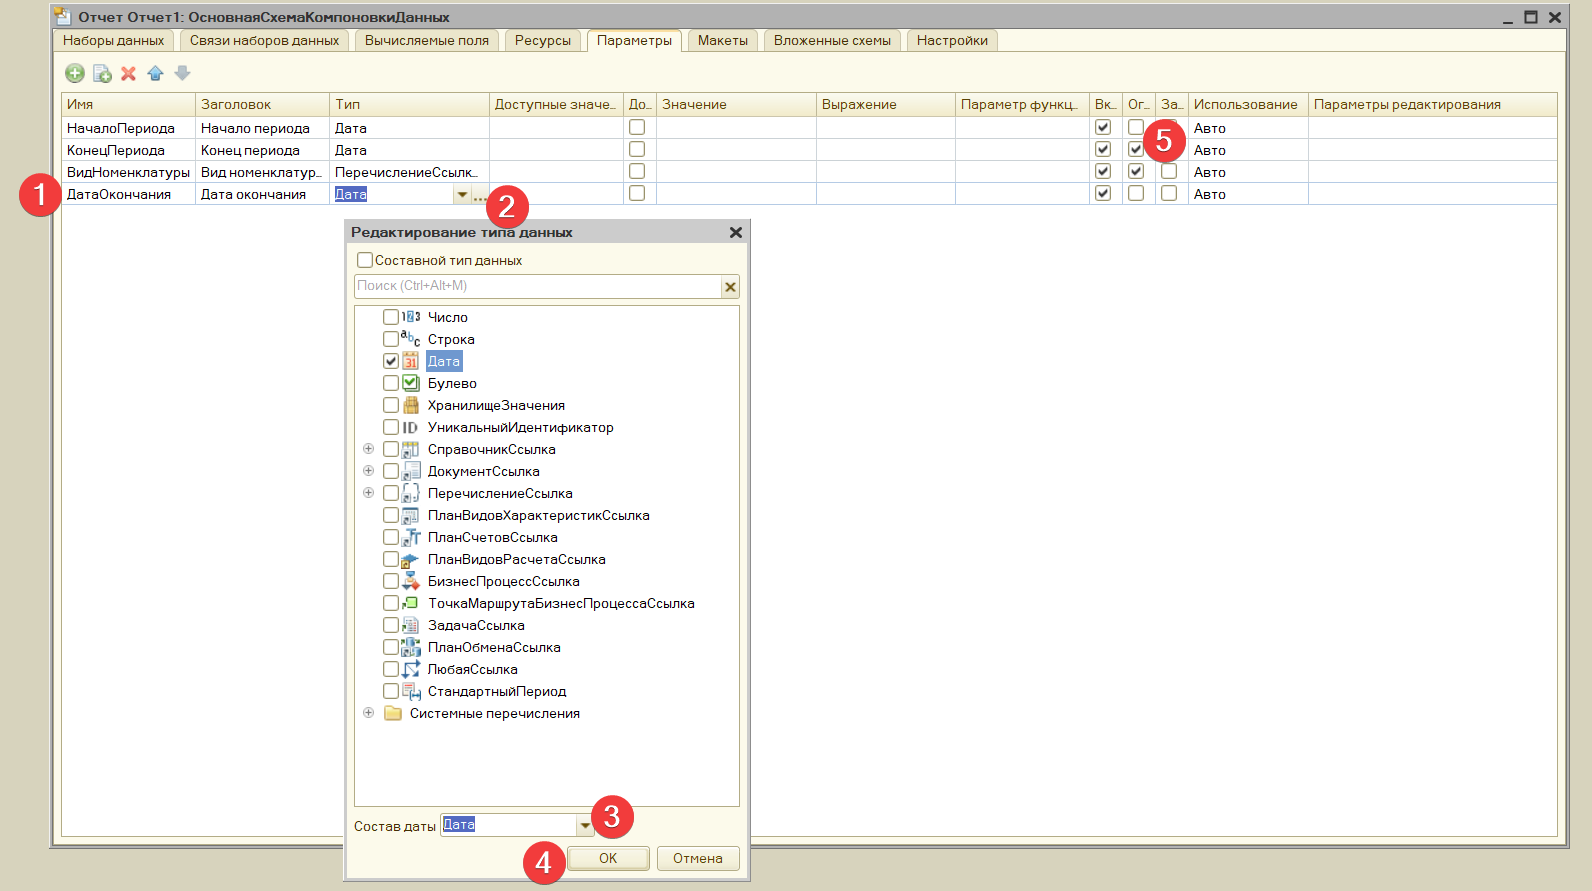
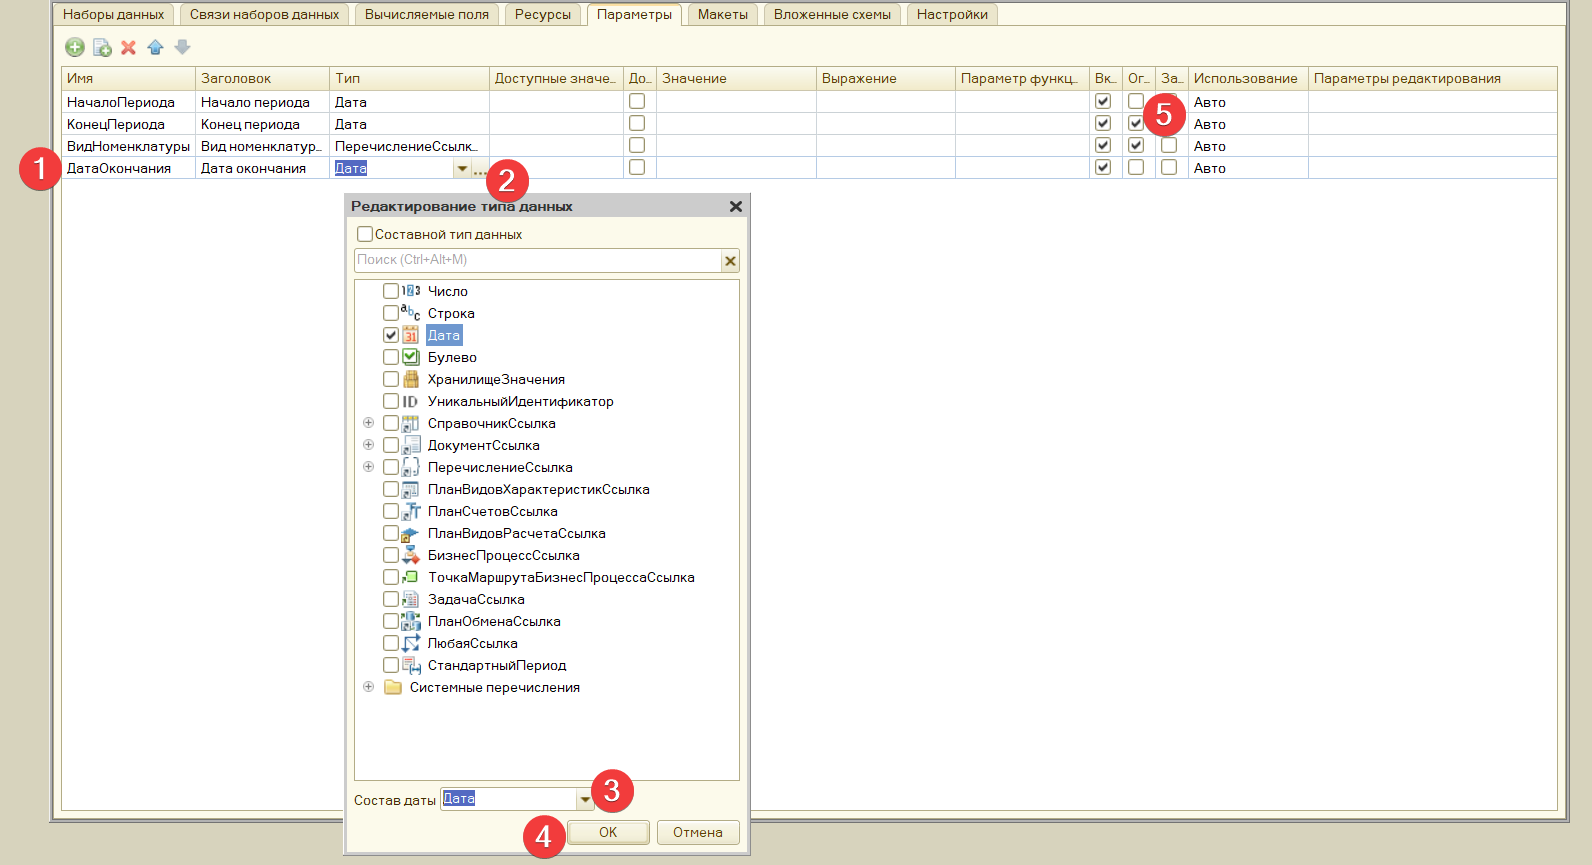
update

Changed region(s): [[0.0, 0.0, 0.9849, 0.8116], [0.2155, 0.874, 0.9849, 0.9676], [0.0308, 0.9364, 0.2155, 0.9676]]

diff --git a/content/Занятия по учебнику/13 Отчеты/3 Отчет/(3 Отчет) ВыручкаМастеров.md b/content/Занятия по учебнику/13 Отчеты/3 Отчет/(3 Отчет) ВыручкаМастеров.md
@@ -1,0 +1,153 @@
+(1) Создаем новый отчет ВыручкаМастеров
+
+![[Pasted image 20251215024935.png]]
+
+(2) Нажимаем на лупу затем кнопку Готово
+
+![[Pasted image 20251215171643.png]]
+
+(3) Нажимаем Добавить набор данных - запрос
+
+![[Pasted image 20251215025015.png]]
+
+(4) Нажмем кнопку Конструктор запроса
+
+![[Pasted image 20251215025235.png]]
+
+(5) Создаем запрос
+
+1. Выбираем виртуальную таблицу регистра накопления Продажи.Обороты
+2. Нажимаем кнопку параметры виртуальной таблицы
+3. Выбираем периодичность Дата
+4. Добавляем поля как на картинке
+
+![[Pasted image 20251215190700.png]]
+
+(5.1) Заходим в Объединения/Псевдонимы
+
+Переименовываем ВыручкаОборот в Выручка после чего жмем внизу ОК
+
+![[Pasted image 20251215190902.png]]
+
+(6) Перетаскиваем в Ресурсах Ресурс Выручка
+
+![[Pasted image 20251215191602.png]]
+
+(7) Переходим в Параметры
+
+1. Начало периода переименовываем в Дата начала
+2. Нажимаем на три точки
+3. В меню Редактирование типа данных ставим Состав даты Дата
+4. После чего жмем ОК
+
+![[Pasted image 20251215192040.png]]
+
+Нажимаем на зеленый "+" слева сверху после чего
+1. Именуем это поле как ДатаОкончания
+2. Нажимаем на три точки
+3. Создаем Тип Дата с Составом даты Дата
+4. Нажимаем ОК
+5. Нажимаем галочку
+
+![[1cv8_jqfJtKnRuI.png]]
+
+Добавим Выражение КонецПериода(&КонецПериода, "День")
+
+![[Pasted image 20251215192438.png]]
+
+(8) Переходим в Настройки и нажимаем Новая группировка и выполним следующие шаги
+
+![[Pasted image 20251215192737.png]]
+
+![[Pasted image 20251215192836.png]]
+
+![[Pasted image 20251215192849.png]]
+
+![[Pasted image 20251215192920.png]]
+
+![[Pasted image 20251215192849.png]]
+
+![[Pasted image 20251215192943.png]]
+
+В итоге должно получится следующее:
+
+![[Pasted image 20251215193015.png]]
+
+(8.1) Переходим в Выбранные поля добавляем поля Клиент и Выручка
+
+![[Pasted image 20251215193140.png]]
+
+(8.2) Зайдем в Другие настройки
+
+1. Установим значение в "Расположение полей по группировок" на Отдельно и только в итогах
+	
+	![[Pasted image 20251215193354.png]]
+
+2. Установим значение в "Расположение общих итогов по вертикали" на Начало
+	![[Pasted image 20251215193605.png]]
+
+3. Установим Заголовок. Назовем его Выручка мастеров
+	![[Pasted image 20251215193759.png]]
+
+(8.3) Переходим в Параметры
+
+1. Ставим галочки
+2. Нажимаем сначала на Параметр потом на кнопку
+3. Нажимаем галочку
+4. Кликаем ОК (повторяем эти же действия начиная со 2 пункта только для второго параметра)
+
+![[Pasted image 20251215193953.png]]
+
+(9) Установим подсистемы
+
+![[Pasted image 20251215194203.png]]
+
+(10) Переходим в Макет нашего отчета
+
+![[Pasted image 20251215182418.png]]
+
+(11) Заходим в Настройки
+
+1. Кликаем по периоду
+2. В настройках выбираем Период
+3. Выбираем Конечную дату периода День
+4. Создаем новое поле как на рисунке
+
+![[Pasted image 20251215194752.png]]
+
+(11.2) В настройках создаем новый Вариант ОбъемВыручки
+
+![[Pasted image 20251215194943.png]]
+
+(11.3) Создаем в этом варианте новую диаграмму
+
+![[Pasted image 20251215195047.png]]
+
+(11.4) Настраиваем вариант
+
+1. Нажимаем на Точки
+2. Кликаем по кнопке Добавить
+3. Выбираем поле Мастер
+4. Жмем ОК
+
+![[Pasted image 20251215195220.png]]
+
+(11.5) Настройка Диаграммы
+
+1. Переходим в Отчет
+2. Устанавливаем Тип диаграммы Измерительная
+
+![[Pasted image 20251215195456.png]]
+
+Устанавливаем Информационные интервалы значений как на картинке
+
+![[Pasted image 20251215195712.png]]
+
+(11.6) Переходим в Параметры
+
+1. Ставим галочки
+2. Нажимаем сначала на Параметр потом на кнопку
+3. Нажимаем галочку
+4. Кликаем ОК (повторяем эти же действия начиная со 2 пункта только для второго параметра)
+
+![[Pasted image 20251215193953.png]]

diff --git a/content/Занятия по учебнику/13 Отчеты/2 Отчет/(2 Отчет) РейтингУслуг.md b/content/Занятия по учебнику/13 Отчеты/2 Отчет/(2 Отчет) РейтингУслуг.md
@@ -24,11 +24,11 @@
 
 ![[Pasted image 20251215172209.png]]
 
-(6) Меняем Связи
+(5.2) Меняем Связи
 
 ![[Pasted image 20251215172633.png]]
 
-(7) Создаем условия
+(5.3) Создаем условия
 
 1. Перетаскиваем реквизит ЭтоГруппа в правую часть
 2. Перетаскиваем реквизит ВидНоменклатуры в правую часть
@@ -37,7 +37,7 @@
 
 ![[Pasted image 20251215174024.png]]
 
-(8) Переходим в Объединения/Псевдонимы
+(5.4) Переходим в Объединения/Псевдонимы
 
 ![[Pasted image 20251215174617.png]]
 
@@ -46,7 +46,7 @@
 
 ![[Pasted image 20251215174732.png]]
 
-(9) Переходим в Порядок
+(5.5) Переходим в Порядок
 
 Перетаскиваем Выручка в право и меняем Сортировку на Убывание
 
@@ -54,13 +54,13 @@
 
 После чего жмем ОК внизу
 
-(10) Переходим в Ресурсы
+(5.6) Переходим в Ресурсы
 
 Перекидываем Выручку вправо
 
 ![[Pasted image 20251215175218.png]]
 
-(11) Переходим в Параметры
+(6) Переходим в Параметры
 
 1. Нажимаем на три точки
 2. В меню Редактирование типа данных ставим Состав даты Дата
@@ -85,21 +85,21 @@
 
 ![[Pasted image 20251215180729.png]]
 
-(12) Переходим в настройки добавляем Новую группировку
+(7) Переходим в настройки добавляем Новую группировку
 
 ![[Pasted image 20251215180944.png]]
 
 ![[Pasted image 20251215181143.png]]
 
-(12.2) В Выбранные поля выбираем Услуга и Выручка
+(7.2) В Выбранные поля выбираем Услуга и Выручка
 
 ![[Pasted image 20251215181222.png]]
 
-(12.3) В Другие настройки найдем Заголовок и поставим значение Рейтинг услуг
+(7.3) В Другие настройки найдем Заголовок и поставим значение Рейтинг услуг
 
 ![[Pasted image 20251215181349.png]]
 
-(12.4) Переходим в Параметры
+(7.4) Переходим в Параметры
 
 1. Нажимаем галочку на Параметре Дата начала
 2. Нажимаем галочку на Параметре Дата окончания
@@ -111,15 +111,15 @@
 
 ![[Pasted image 20251215181540.png]]
 
-(13) Ставим подсистемы
+(8) Ставим подсистемы
 
 ![[Pasted image 20251215181947.png]]
 
-(14) Переходим в Макет нашего отчета
+(9) Переходим в Макет нашего отчета
 
 ![[Pasted image 20251215182418.png]]
 
-(14.2) В Макете
+(9.2) В Макете
 
 1. Переходим в Настройки
 2. Снизу выбираем Условное оформление
@@ -129,7 +129,7 @@
 
 ![[Pasted image 20251215182556.png]]
 
-(14.3) В Условие
+(9.3) В Условие
 
 1. Нажимаем на три точки
 2. Затем кликаем на кнопку новый элемент
@@ -138,14 +138,14 @@
 
 ![[Pasted image 20251215182815.png]]
 
-(14.4) В Оформление поля
+(9.4) В Оформление поля
 
 1. Нажимаем на три точки
 2. Тыкаем на зеленый "+" и ставим поля как на картинке
 
 ![[Pasted image 20251215183004.png]]
 
-(14.5) В представление пишем
+(9.5) В представление пишем
 
 ![[Pasted image 20251215183117.png]]
 
@@ -153,7 +153,7 @@
 
 ![[Pasted image 20251215183141.png]]
 
-(14.6)
+(9.6)
 
 1. Нажимаем кнопку Свойства элемента пользовательских настроек
 2. Ставим галочку Отбор
@@ -163,6 +163,6 @@
 
 ![[Pasted image 20251215183342.png]]
 
-(14.7) Заходим в Отбор и нажимаем два раза по Родителю
+(9.7) Заходим в Отбор и нажимаем два раза по Родителю
 
 ![[Pasted image 20251215183654.png]]

diff --git a/content/Занятия по учебнику/13 Отчеты/1 Отчет/(1 Отчет) РеестрДокументовОказаниеУслуги.md b/content/Занятия по учебнику/13 Отчеты/1 Отчет/(1 Отчет) РеестрДокументовОказаниеУслуги.md
@@ -18,19 +18,19 @@
 
 ![[Pasted image 20251215025354.png]]
 
-(6) Объединения/Псевдонимы поменяем имя поля Ссылка на Документ
+(5.2) Объединения/Псевдонимы поменяем имя поля Ссылка на Документ
 
 ![[Pasted image 20251215025955.png]]
 
-(7) Перетащите поле Документ
+(5.3) Перетащите поле Документ
 
 ![[Pasted image 20251215030205.png]]
 
-(8) В Настройках нажимаем на новую группировку
+(6) В Настройках нажимаем на новую группировку
 
 ![[Pasted image 20251215030330.png]]
 
-(9) На закладке Выбранные поля перенесем мышью из списка доступных полей те поля, которые будут выводиться в отчет:
+(7) На закладке Выбранные поля перенесем мышью из списка доступных полей те поля, которые будут выводиться в отчет:
 1. Документ
 2. Склад
 3. Мастер
@@ -38,6 +38,6 @@
 
 ![[Pasted image 20251215030458.png]]
 
-(10) Добавляем подсистему
+(8) Добавляем подсистему
 
 ![[Pasted image 20251215030603.png]]
